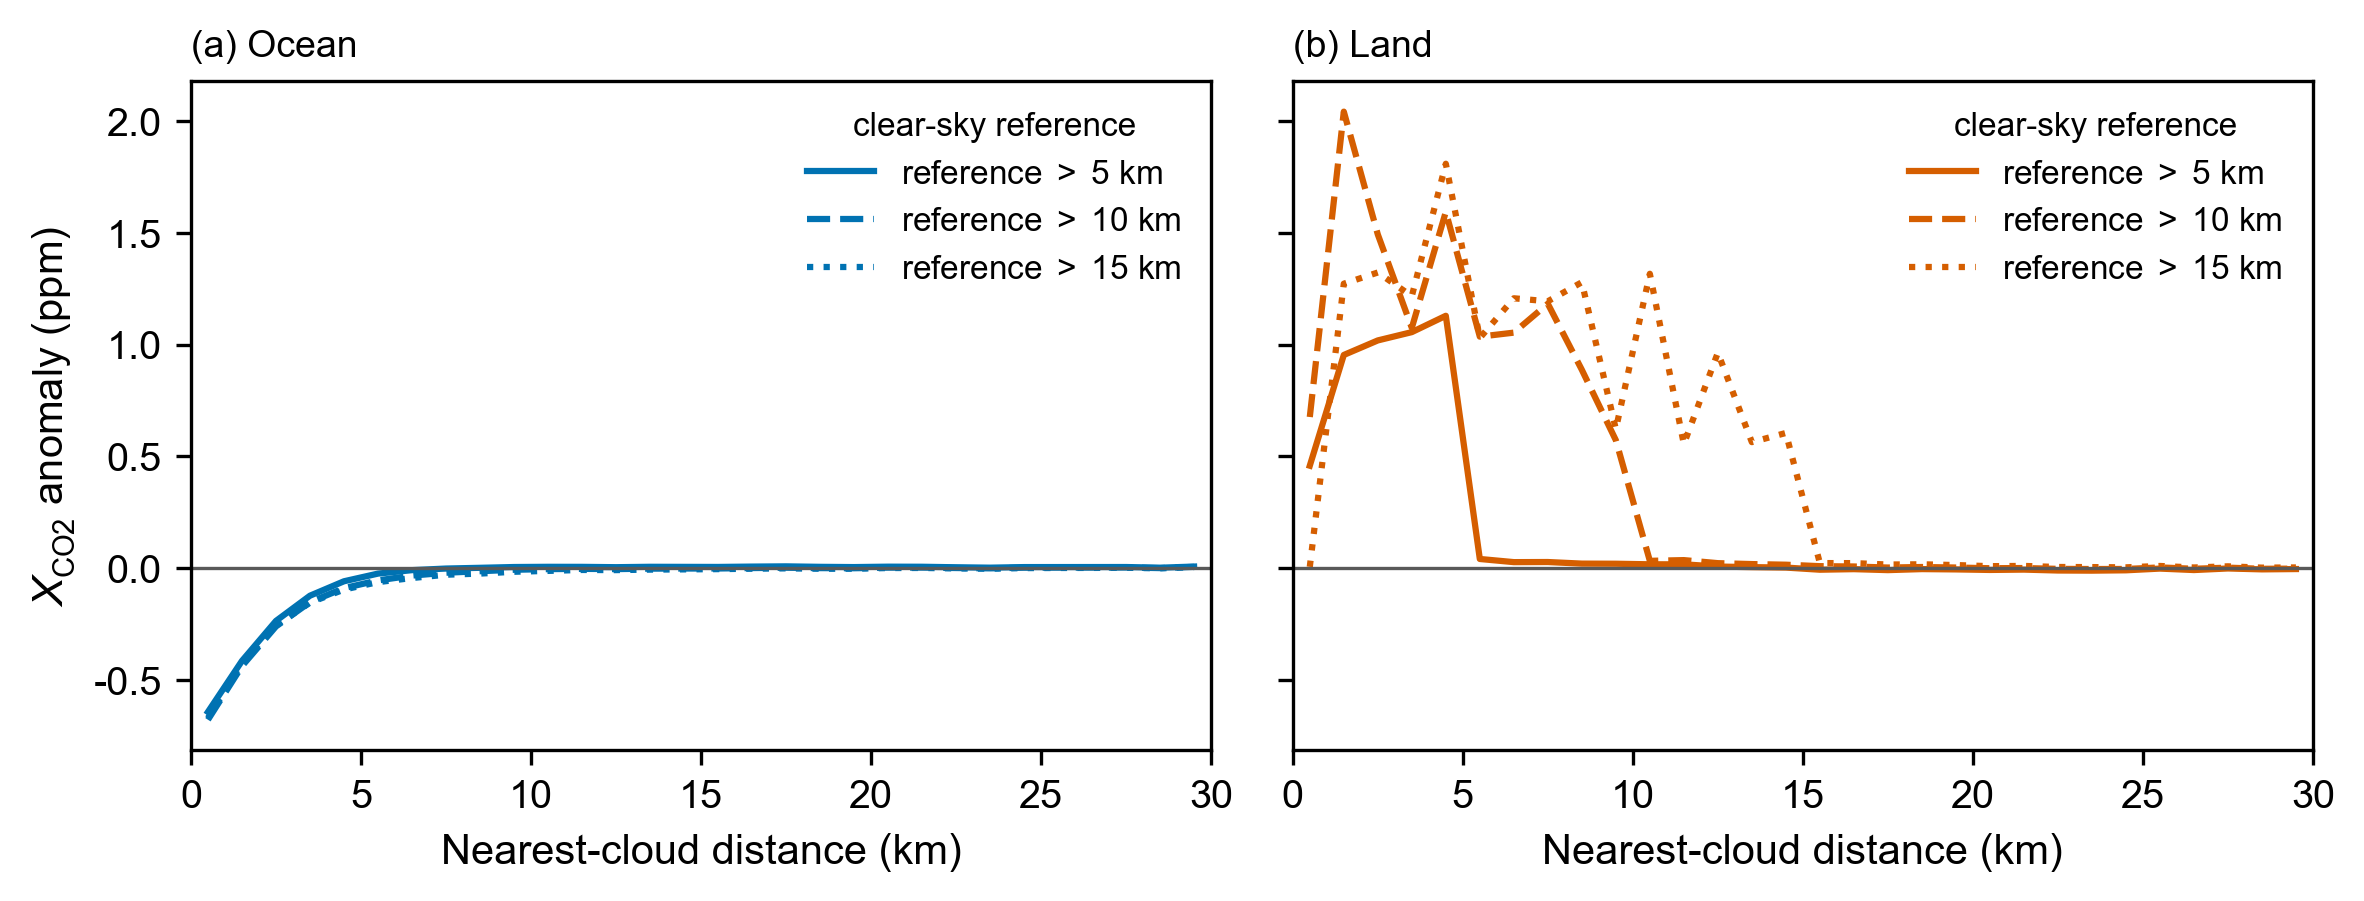
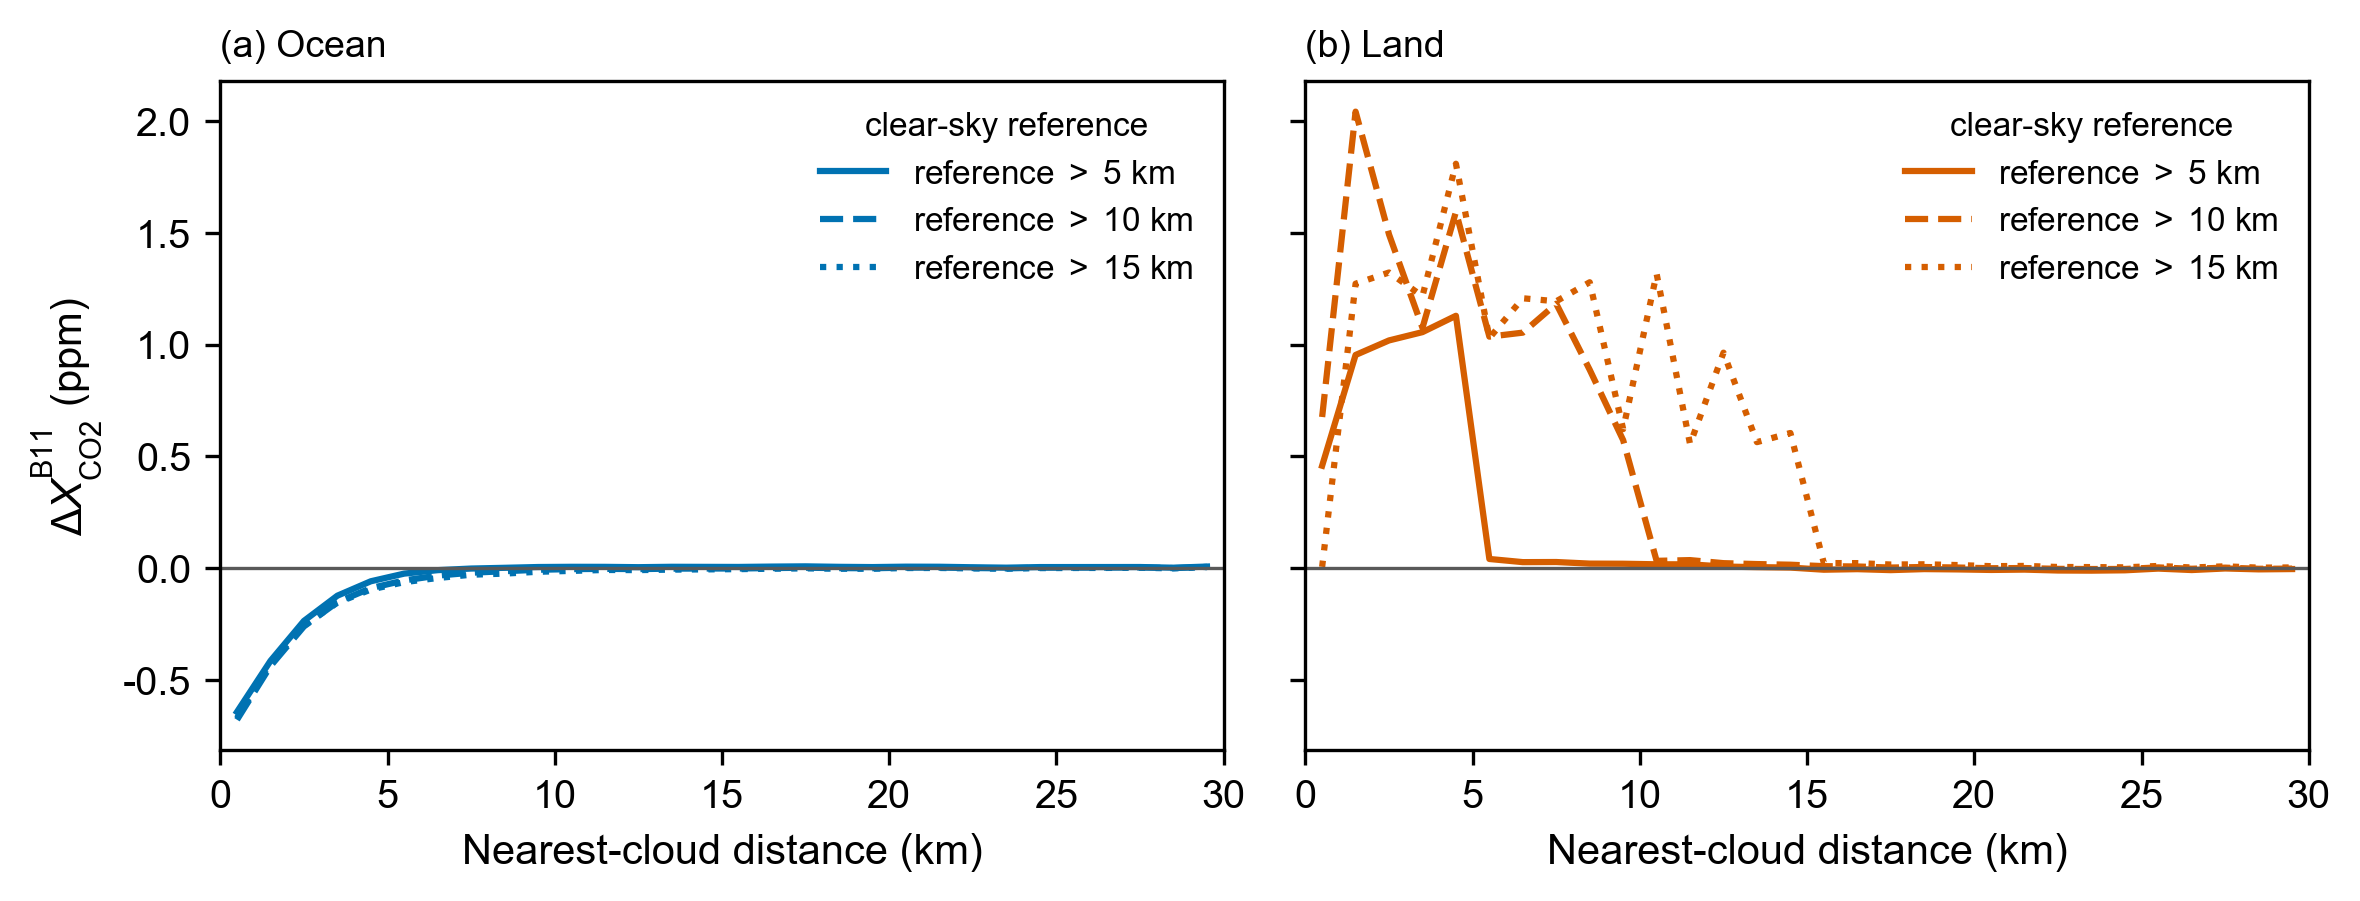
Product-resolved XCO2 notation paper-wide (B11/raw/ATom/ship superscripts)
- plot_style: XCO2_BC/RAW/ATOM/SHIP_LABEL + DXCO2_BC_LABEL constants
- fig03, fig03alt, figB2, fig05 (+ocean companion) regenerated with
  \Delta X_CO2^B11 axis labels
- Plan: notation table in section 6, changelog 2026-07-22s; copied report
  figures adopt the superscripts at their next re-render

diff --git a/manuscript/scripts/make_anomaly_decay_figure.py b/manuscript/scripts/make_anomaly_decay_figure.py
@@ -37,7 +37,7 @@ import matplotlib
 matplotlib.use("Agg")
 import matplotlib.pyplot as plt
 
-from plot_style import XCO2_LABEL, apply_manuscript_style, panel_label
+from plot_style import DXCO2_BC_LABEL, apply_manuscript_style, panel_label
 
 PARQUET = REPO / "results" / "csv_collection" / "combined_2016_2020_dates.parquet"
 OUT_DIR = REPO / "manuscript" / "figures"
@@ -144,7 +144,7 @@ def make_boxplot_version(t, d, ocean, land) -> None:
     for ax in axes[1]:
         ax.set_xlabel("Nearest-cloud distance (km)")
     for ax in axes[:, 0]:
-        ax.set_ylabel(f"{XCO2_LABEL} anomaly (ppm)")
+        ax.set_ylabel(f"{DXCO2_BC_LABEL} (ppm)")
     axes[0, 0].set_ylim(-2.0, 1.5)
     axes[1, 0].set_ylim(-2.0, 1.5)
     axes[0, 1].set_ylim(-2.5, 3.2)
@@ -177,7 +177,7 @@ def make_target_sensitivity(t, d, ocean, land) -> None:
         ax.set_title(name, fontsize=9, loc="left")
         ax.legend(frameon=False, fontsize=8,
                   title="clear-sky reference", title_fontsize=8)
-    axes[0].set_ylabel(f"{XCO2_LABEL} anomaly (ppm)")
+    axes[0].set_ylabel(f"{DXCO2_BC_LABEL} (ppm)")
     fig.tight_layout()
     for ext in ("png", "pdf"):
         out = OUT_DIR / f"figB2_target_sensitivity.{ext}"
@@ -229,7 +229,7 @@ def main() -> None:
         ax.set_xlim(0, 30)
         ax.set_xlabel("Nearest-cloud distance (km)")
         ax.legend(frameon=False, loc="upper right", fontsize=8)
-    axa.set_ylabel(f"{XCO2_LABEL} anomaly (ppm)")
+    axa.set_ylabel(f"{DXCO2_BC_LABEL} (ppm)")
 
     OUT_DIR.mkdir(parents=True, exist_ok=True)
     fig.tight_layout()

diff --git a/workspace/plot_style.py b/workspace/plot_style.py
@@ -39,6 +39,14 @@ CMAPS = {
 }
 
 XCO2_LABEL = r"$X_{\mathrm{CO2}}$"
+# Product-resolved XCO2 notation (user convention 2026-07-23): superscript
+# names the product/reference. Anomaly targets prepend \Delta. Use these
+# constants — never retype the superscripts.
+XCO2_BC_LABEL = r"$X_{\mathrm{CO2}}^{\mathrm{B11}}$"      # xco2_bc (operational BC)
+XCO2_RAW_LABEL = r"$X_{\mathrm{CO2}}^{\mathrm{raw}}$"     # xco2_raw
+XCO2_ATOM_LABEL = r"$X_{\mathrm{CO2}}^{\mathrm{ATom}}$"   # ATom pseudo-column
+XCO2_SHIP_LABEL = r"$X_{\mathrm{CO2}}^{\mathrm{ship}}$"   # shipborne EM27/SUN
+DXCO2_BC_LABEL = r"$\Delta X_{\mathrm{CO2}}^{\mathrm{B11}}$"  # xco2_bc_anomaly
 # Spectral-fit cumulants shown with their physical meaning: k1 = mean and
 # k2 = variance of the relative photon path l' (k_n defined in the text).
 # Rendering: Times-italic l via the \mathcal slot (Arial's italic l is a

diff --git a/manuscript/scripts/make_shadow_brightening_figure.py b/manuscript/scripts/make_shadow_brightening_figure.py
@@ -33,7 +33,8 @@ import matplotlib
 matplotlib.use("Agg")
 import matplotlib.pyplot as plt
 
-from plot_style import MEAN_L_LABEL, apply_manuscript_style, panel_label
+from plot_style import (DXCO2_BC_LABEL, MEAN_L_LABEL,
+                        apply_manuscript_style, panel_label)
 
 CSV = (REPO / "results" / "figures" / "cld_dist_analysis"
        / "spec_sensitivity" / "shadow_brightening_stats.csv")
@@ -47,8 +48,7 @@ BRANCHES = [("brightened", "#d95f02"),
 PANELS = [("dk1_o2a", f"$\\Delta${MEAN_L_LABEL} O$_2$A"),
           ("dk1_wco2", f"$\\Delta${MEAN_L_LABEL} WCO$_2$"),
           ("dk1_sco2", f"$\\Delta${MEAN_L_LABEL} SCO$_2$"),
-          ("xco2_bc_anomaly",
-           "$\\Delta X_{\\mathrm{CO2}}^{\\mathrm{B11}}$ (ppm)")]
+          ("xco2_bc_anomaly", f"{DXCO2_BC_LABEL} (ppm)")]
 
 
 def main() -> None:

diff --git a/log/MANUSCRIPT_FLOW_PLAN.md b/log/MANUSCRIPT_FLOW_PLAN.md
@@ -161,6 +161,12 @@ pre-restyle/full-parquet caveat is cleared); ocean companion written to
 `internal_shadow_brightening_ocean`. Panel (d) label uses
 $\Delta X_{\mathrm{CO2}}^{\mathrm{B11}}$ (user request — matches the
 supplement.tex \xcobc macro family).  
+**Updated:** 2026-07-22s — product-resolved XCO2 notation adopted
+paper-wide (B11/raw/ATom/ship superscripts + ΔX for the anomaly; §6
+table, plot_style constants XCO2_BC/RAW/ATOM/SHIP_LABEL +
+DXCO2_BC_LABEL); fig03, fig03alt, figB2, fig05(+ocean) regenerated with
+ΔX_CO2^B11 axes; copied report figures adopt it at their next
+re-render.  
 **Target journal:** *Atmospheric Measurement Techniques* (AMT)  
 **Purpose:** Convert the project evidence ledger into a conventional,
 reviewer-readable manuscript flow. This document governs narrative order; the
@@ -1791,6 +1797,23 @@ Use the following distinctions consistently:
 
 Keep XCO2 typesetting and notation consistent with the AMT figure style:
 \(X_{\mathrm{CO_2}}\), \(l'\), \(k_1\), and \(k_2\).
+
+**Product-resolved XCO2 notation (user convention 2026-07-23; constants
+in `plot_style.py`, macros in `supplement.tex` — never retype):**
+
+| Quantity | Symbol | plot_style constant |
+|---|---|---|
+| xco2_bc (operational B11 BC) | \(X_{\mathrm{CO2}}^{\mathrm{B11}}\) | `XCO2_BC_LABEL` |
+| xco2_raw | \(X_{\mathrm{CO2}}^{\mathrm{raw}}\) | `XCO2_RAW_LABEL` |
+| ATom pseudo-column | \(X_{\mathrm{CO2}}^{\mathrm{ATom}}\) | `XCO2_ATOM_LABEL` |
+| shipborne EM27/SUN | \(X_{\mathrm{CO2}}^{\mathrm{ship}}\) | `XCO2_SHIP_LABEL` |
+| anomaly target (xco2_bc_anomaly) | \(\Delta X_{\mathrm{CO2}}^{\mathrm{B11}}\) | `DXCO2_BC_LABEL` |
+
+Applied 2026-07-23 to fig03/fig03alt/figB2/fig05 (+ ocean companion).
+The copied report figures that display XCO2 axes (fig07a, fig08,
+fig09a/b, figD2–D4, figE2) still carry generic labels — adopt the
+superscripts when their producers are next re-rendered (ATom/ship
+producers live in workspace/ATom_analysis + Ship_analysis).
 
 ## 7. Values that must be frozen before prose drafting
 